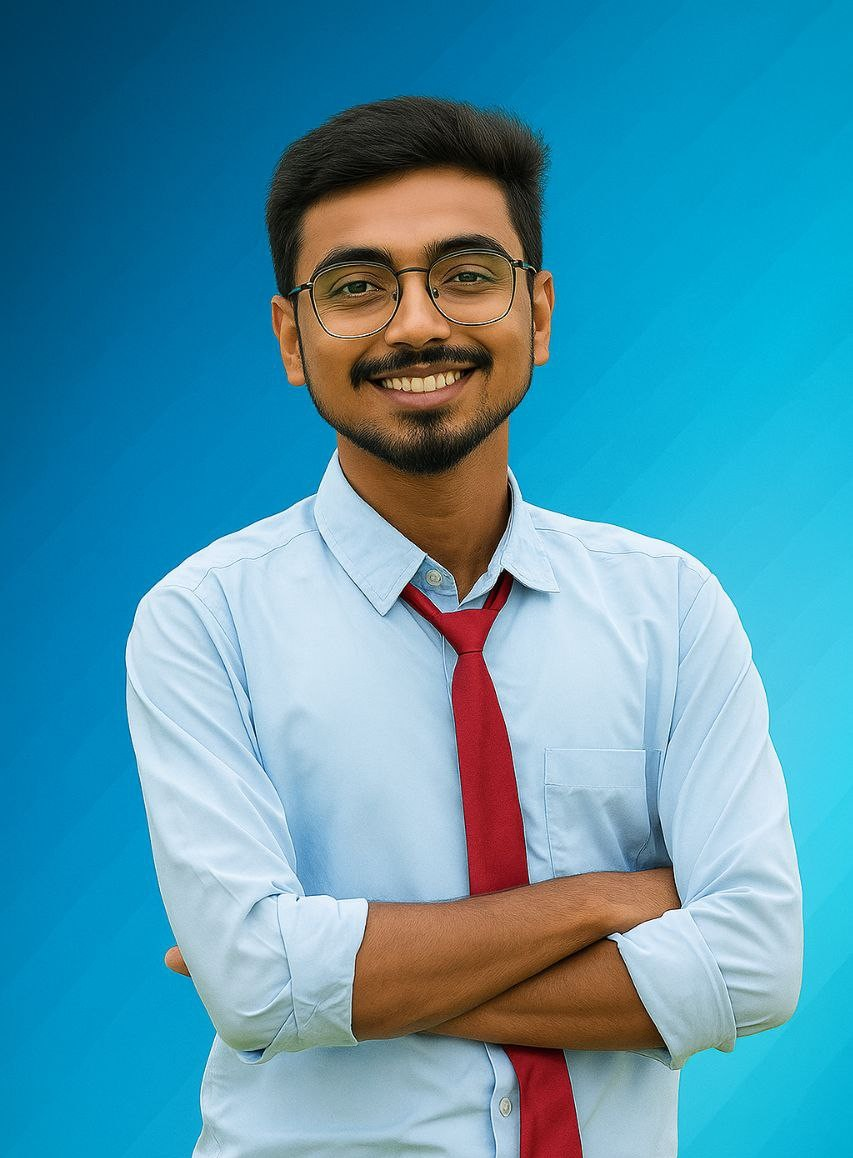
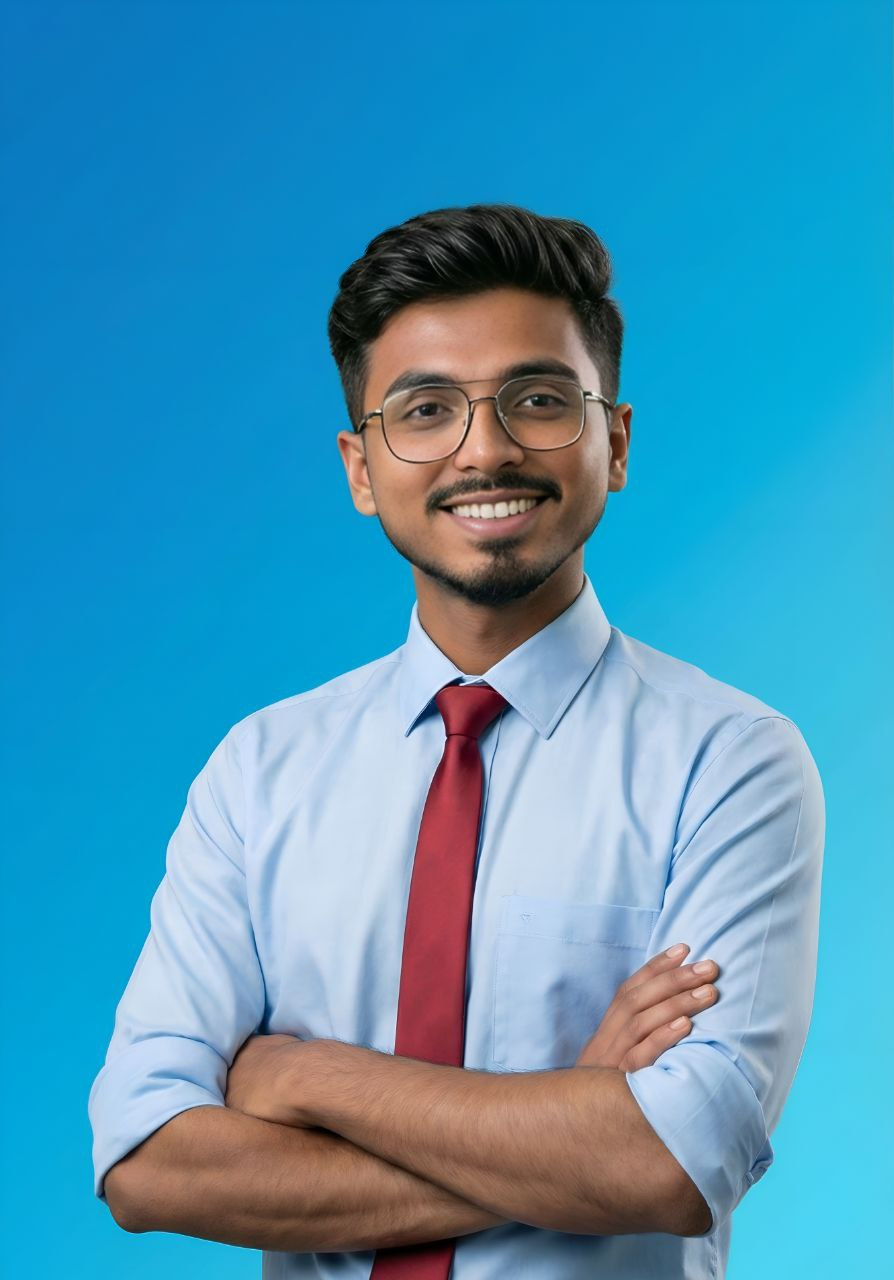
add new commit

diff --git a/app2.js b/app2.js
@@ -1,0 +1,166 @@
+const CodeCrafterApp = {
+  init() {
+    this.setupLoadingScreen();
+    this.setupThemeToggle();
+    this.setupNavigation();
+    this.setupSearch();
+    this.setupScrollAnimations();
+    this.setupBackToTop();
+    this.setupFormHandling();
+  },
+
+  // Loading Screen - बिना delay के
+  setupLoadingScreen() {
+    window.addEventListener("load", () => {
+      const loadingScreen = document.getElementById("loading-screen");
+      if (loadingScreen) {
+        loadingScreen.classList.add("hidden");
+        loadingScreen.style.display = "none";
+      }
+    });
+  },
+
+  // Theme Toggle - improved
+  setupThemeToggle() {
+    const themeToggle = document.getElementById("theme-toggle");
+    if (!themeToggle) return;
+    const savedTheme = localStorage.getItem("theme") || "light";
+    if (savedTheme === "dark") {
+      document.body.classList.add("dark-mode");
+      themeToggle.checked = true;
+    }
+    themeToggle.addEventListener("change", () => {
+      document.body.classList.toggle("dark-mode");
+      localStorage.setItem("theme", themeToggle.checked ? "dark" : "light");
+    });
+  },
+
+  // Navigation - Event Delegation (बहुत efficient)
+  setupNavigation() {
+    const navLinks = document.getElementById("nav-links");
+    if (!navLinks) return;
+    navLinks.addEventListener("click", (e) => {
+      if (e.target.tagName === "A" && e.target.href.includes("#")) {
+        e.preventDefault();
+        const targetId = e.target.getAttribute("href");
+        const target = document.querySelector(targetId);
+        if (target) {
+          const headerHeight = 100;
+          window.scrollTo({
+            top: target.offsetTop - headerHeight,
+            behavior: "smooth",
+          });
+          const menuToggle = document.getElementById("responsive_menu");
+          if (menuToggle) menuToggle.checked = false;
+        }
+      }
+    });
+  },
+
+  // Search - optimized
+  setupSearch() {
+    const searchInput = document.getElementById("search");
+    const searchBtn = document.querySelector(".search-btn");
+    if (!searchInput || !searchBtn) return;
+    const performSearch = () => {
+      const query = searchInput.value.trim();
+      if (query.length > 0) {
+        const url = `https://www.youtube.com/results?search_query=${encodeURIComponent(
+          query + " programming tutorial"
+        )}`;
+        window.open(url, "_blank");
+      }
+    };
+    searchBtn.addEventListener("click", performSearch);
+    searchInput.addEventListener("keypress", (e) => {
+      if (e.key === "Enter") performSearch();
+    });
+  },
+
+  // Scroll Animations - OPTIMIZED - sirf sections observe karo
+  setupScrollAnimations() {
+    const observer = new IntersectionObserver(
+      (entries) => {
+        entries.forEach((entry) => {
+          if (entry.isIntersecting) {
+            entry.target.classList.add("visible");
+            // Sections के बाद unobserve - memory save
+            observer.unobserve(entry.target);
+          }
+        });
+      },
+      {
+        threshold: 0.1,  // 0.05 se 0.1 - better performance
+        rootMargin: "50px", // Fixed value instead of percentage
+      }
+    );
+
+    // CRITICAL FIX: Sirf sections observe karo, har card nahi
+    document.querySelectorAll("section").forEach((el) => {
+      observer.observe(el);
+    });
+
+    // Cards ko separately handle karo - staggered animation
+    const cards = document.querySelectorAll(".note-card");
+    cards.forEach((card, index) => {
+      card.style.transitionDelay = `${index * 0.1}s`;
+      observer.observe(card);
+    });
+  },
+
+  // Back to Top - throttled with requestAnimationFrame
+  setupBackToTop() {
+    const btn = document.getElementById("back-to-top");
+    if (!btn) return;
+    let ticking = false;
+    let isVisible = false;
+    window.addEventListener("scroll", () => {
+      if (!ticking) {
+        window.requestAnimationFrame(() => {
+          const shouldShow = window.pageYOffset > 300;
+          if (shouldShow && !isVisible) {
+            btn.classList.add("show");
+            isVisible = true;
+          } else if (!shouldShow && isVisible) {
+            btn.classList.remove("show");
+            isVisible = false;
+          }
+          ticking = false;
+        });
+        ticking = true;
+      }
+    });
+    btn.addEventListener("click", () => {
+      window.scrollTo({ top: 0, behavior: "smooth" });
+    });
+  },
+
+  // Form Handling
+  setupFormHandling() {
+    const contactForm = document.querySelector(".contact-form");
+    if (contactForm) {
+      contactForm.addEventListener("submit", (e) => {
+        const btn = contactForm.querySelector(".submit-btn");
+        btn.innerHTML = '<i class="fas fa-spinner fa-spin"></i> Sending...';
+        btn.disabled = true;
+      });
+    }
+    const newsletterForm = document.querySelector(".newsletter-form");
+    if (newsletterForm) {
+      newsletterForm.addEventListener("submit", (e) => {
+        const btn = newsletterForm.querySelector("button");
+        btn.innerHTML = '<i class="fas fa-spinner fa-spin"></i> Subscribing...';
+        btn.disabled = true;
+      });
+    }
+  },
+};
+
+// Initialize on DOM ready
+if (document.readyState === "loading") {
+  document.addEventListener("DOMContentLoaded", () => {
+    CodeCrafterApp.init();
+  });
+} else {
+  CodeCrafterApp.init();
+}

diff --git a/courses.html b/courses.html
@@ -42,7 +42,7 @@
         <label for="responsive_menu" class="menu-toggle"></label>
 
         <ul id="nav-links">
-          <li><a href="index.html#home">Home</a></li>
+          <li><a href="index.html">Home</a></li>
           <li><a href="index.html#notes">Notes</a></li>
           <li><a href="index.html#programming">Programming</a></li>
           <li><a href="index.html#about">About</a></li>
@@ -488,6 +488,6 @@
     </button>
 
     <!-- JavaScript -->
-    <script src="script.js"></script>
+    <script src="app.js"></script>
   </body>
 </html>

diff --git a/style.css b/style.css
@@ -484,7 +484,7 @@ section {
     border-radius: 15px;
     position: relative;
     overflow: hidden;
-    opacity: 0;
+    /* opacity: 0; */
     transform: translateY(50px);
     transition: all 0.8s ease;
 }
